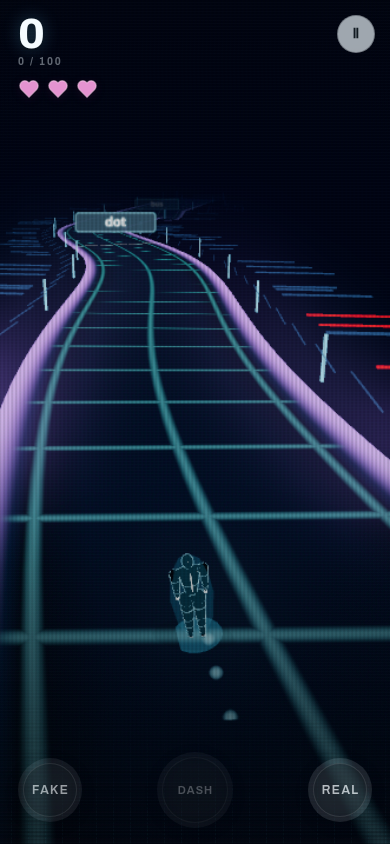
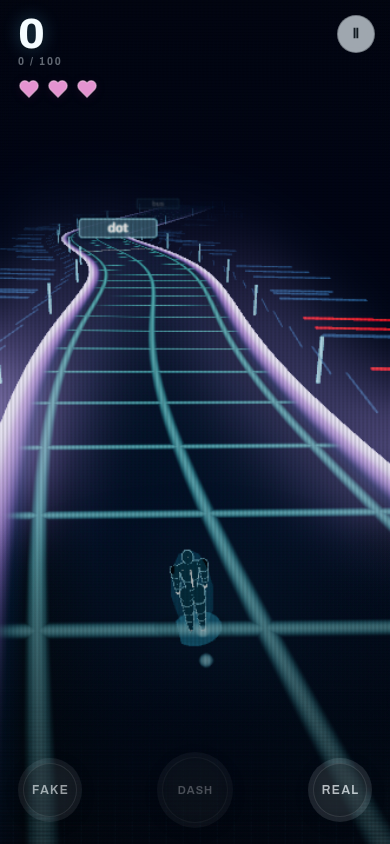
N8 — the dip was a wrong-arity call, and the ribbon is a light now
## The dips

Not the camera. Measured as screen-space wobble of the road centreline off
its own trend, the old rig and the new one are the same: 11.65px vs 11.45px
at cruise. What changed is that the bright pass made the road glow, so its
shape became visible.

The source was `v1-house-pad.js`, and it is worse than a leftover. It
levelled a terrace under the opening house, and computed the target height
with:

    terrain.baseHeight(HOUSE.x, HOUSE.d)

`baseHeight` takes ONE argument, `d`. So it flattened the road at d~170 to
the elevation at d = -11 — eleven metres behind the start line. An
arbitrary height, in the playable corridor, at gate one of every run, under
a house Phase 7 deleted. It was the only caller of `baseHeight` in the
codebase, so nothing else ever caught the signature.

Measured on a daily-style seed, centreline wobble over d=120..320:

    with the terrace     0.680 m   (peak at d=167)
    without              0.043 m

and the worst cross-road tilt drops 1.053 m -> 0.859 m. Seed 4242 showed
0.000 m either way, which is why it could sit there: whether it dips at all
depends on what the elevation happens to be at d = -11 for that seed.

The whole file is gone, with its import from rc9-audio.js. It reserved
generated clutter from the house footprint too, which is moot — every
FEATURES spawn count is zero.

The Phase 0 behaviour snapshot passes UNCHANGED. The sim never reads
terrain height (the Phase L contract: "the speed model NEVER reads the
[…]

diff --git a/src/render/material-pass.js b/src/render/material-pass.js
@@ -114,20 +114,45 @@ function terrainMaterial() {
         vec3 p4GridCol = mix(vec3(0.05, 0.34, 0.46), vec3(0.30, 0.16, 0.52), p4Hue);
         p4GridCol = mix(p4GridCol, vec3(0.05, 0.44, 0.30), p4Hue2 * 0.55);
         vec3 p4RailCol = mix(vec3(0.10, 0.62, 0.80), vec3(0.52, 0.26, 0.86), p4Hue2);
-        totalEmissiveRadiance += p4GridCol * p4Line * 0.62 * uP9Flow;
-        totalEmissiveRadiance += p4RailCol * p4Rail * 1.15 * uP9Flow;`)
+        // N8 — the ribbon has a HOT CORE now.
+        //
+        // Measured, the shipped ribbon never crossed 1.0: the grid peaked at
+        // ~0.56 radiance and the rails at ~0.99 even at full flow. Nothing in
+        // the frame was ever bright enough for the tone map to roll to white
+        // or for the bright pass to bite on, which is why the road read as
+        // painted lines rather than light, and why turning bloom strength up
+        // changed almost nothing — there was nothing above the threshold to
+        // bleed. A bloom cannot invent a highlight that the shader never made.
+        //
+        // So the rail gets a narrow white core at its very edge, deliberately
+        // over-driven past 1.0. The coloured rail stays the halation around
+        // it and keeps its hue drift; the core carries no hue at all, so it
+        // competes with no semantic colour and cannot drift into a reserved
+        // one. It is QUADRATIC in flow because brilliance is earned in this
+        // game: at chain zero it is a hairline, and at the cap it is the
+        // white-hot edge the key art has.
+        float p4Core = smoothstep(0.90, 0.995, abs(vP4Lane));
+        totalEmissiveRadiance += p4GridCol * p4Line * 0.88 * uP9Flow;
+        totalEmissiveRadiance += p4RailCol * p4Rail * 1.40 * uP9Flow;
+        totalEmissiveRadiance += vec3(0.70, 0.92, 1.0) * p4Core
+          * uP4Hot * uP9Flow * uP9Flow * 0.62;`)
       .replace('#include <common>\nvarying float vP4Lane;',
-        '#include <common>\nuniform float uP9Flow;\nuniform float uP4HalfW;\nuniform float uP4Cell;\nvarying float vP4Lane;');
+        '#include <common>\nuniform float uP9Flow;\nuniform float uP4HalfW;\nuniform float uP4Cell;\nuniform float uP4Hot;\nvarying float vP4Lane;');
     shader.uniforms.uP4HalfW = terrain.userData.uP4HalfW;
+    shader.uniforms.uP4Hot = terrain.userData.uP4Hot;
     shader.uniforms.uP4Cell = terrain.userData.uP4Cell;
   };
   terrain.userData.uP9Flow = { value: 1 };
+  // A live dial, so the hot core can be swept from a still driver instead of
+  // guessed at — the last time a constant was reset every frame, a whole
+  // sweep measured nothing.
+  terrain.userData.uP4Hot = { value: 1.6 };
   terrain.userData.uP4HalfW = { value: TUNING.RUN.TRACK_HALF_W };
   // RC8.3: the grid cell IS the ground frequency — how often a rung sweeps
   // under the runner — so it is a speed cue and lives with the others in
   // TUNING.CUES rather than as a 6.0 buried in a shader string.
   terrain.userData.uP4Cell = { value: TUNING.CUES.GRID_CELL_M };
-  terrain.customProgramCacheKey = () => 'dictiondash-p30-track-space-grid-v2';
+  terrain.customProgramCacheKey = () => 'dictiondash-n8-track-space-grid-hot-core';
   return terrain;
 }
 

diff --git a/src/rc9-audio.js b/src/rc9-audio.js
@@ -5,7 +5,6 @@ import './v1-contact.js';
 import './v1-chase.js';
 import './v1-viewport.js';
 import './v1-final-mix.js';
-import './v1-house-pad.js';
 import './v1-mixer.js';
 import './v1-approved-mix.js';
 
